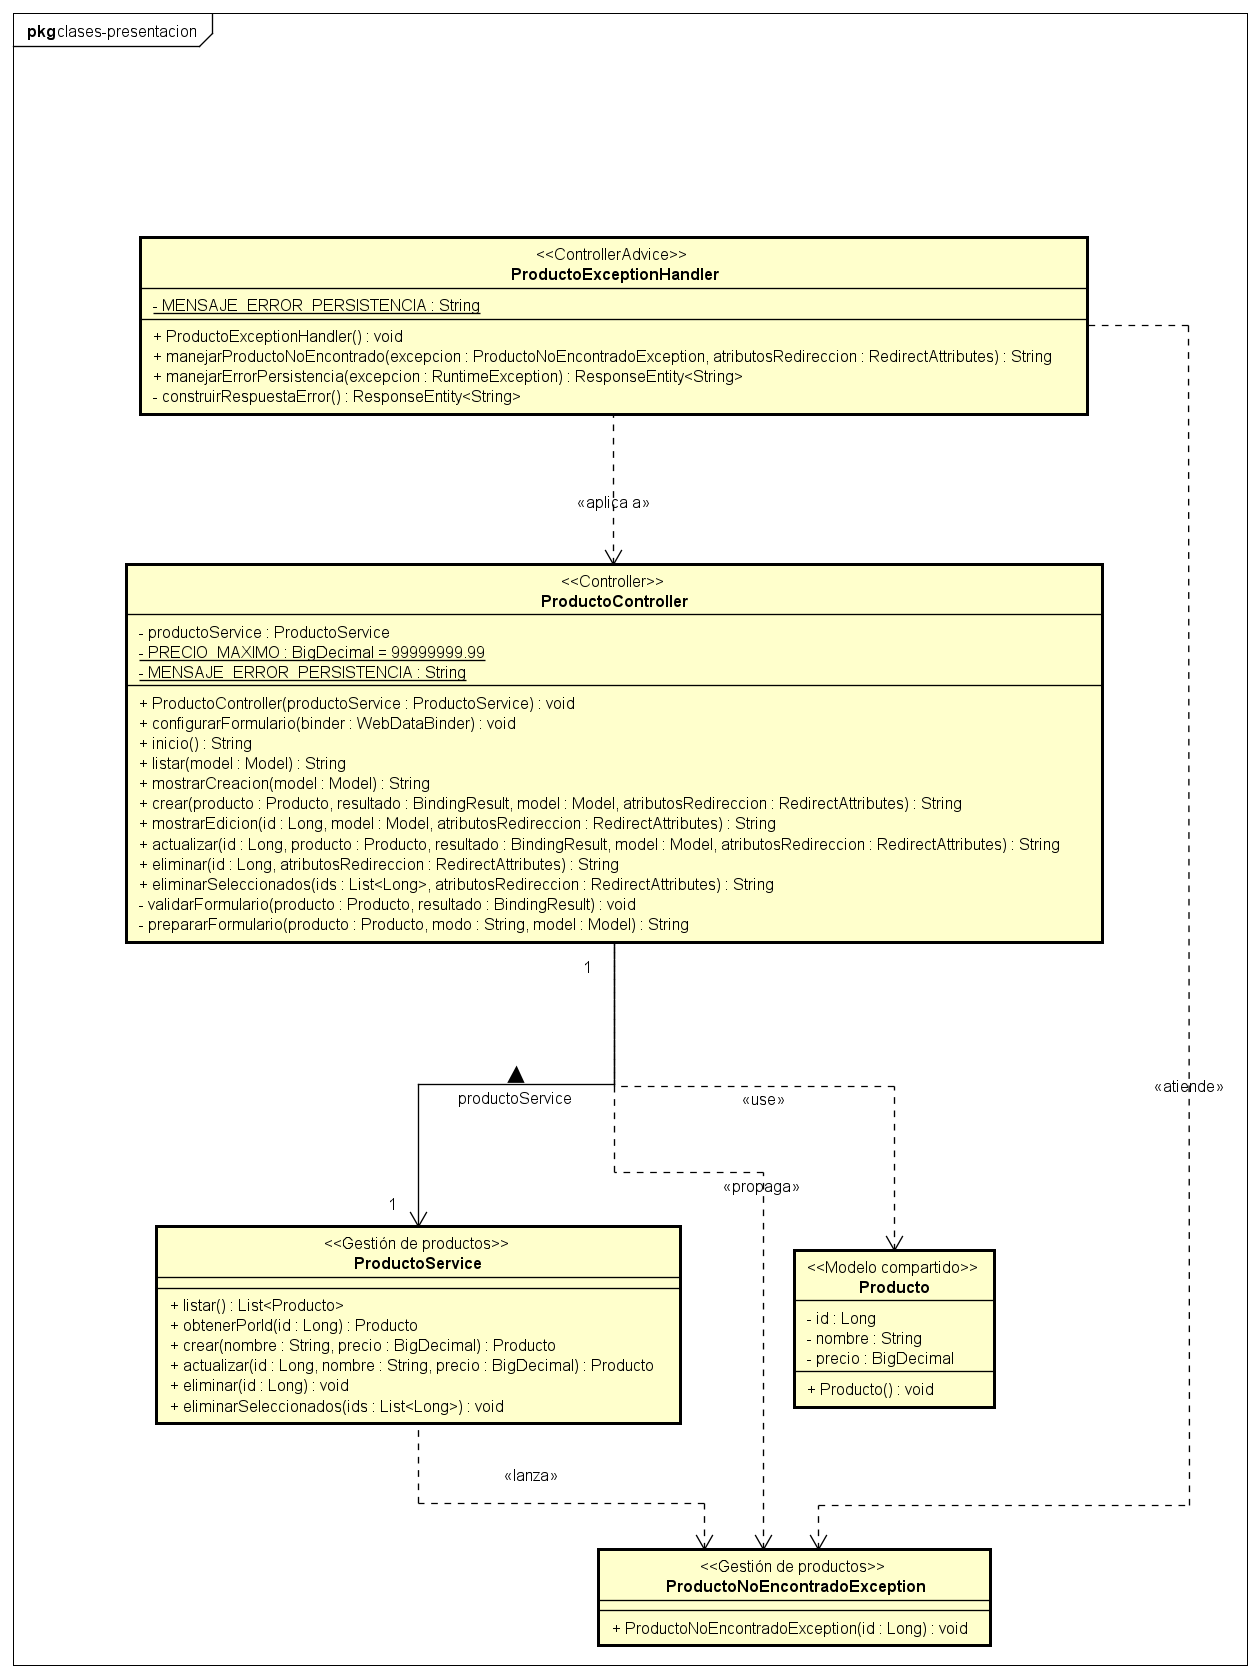
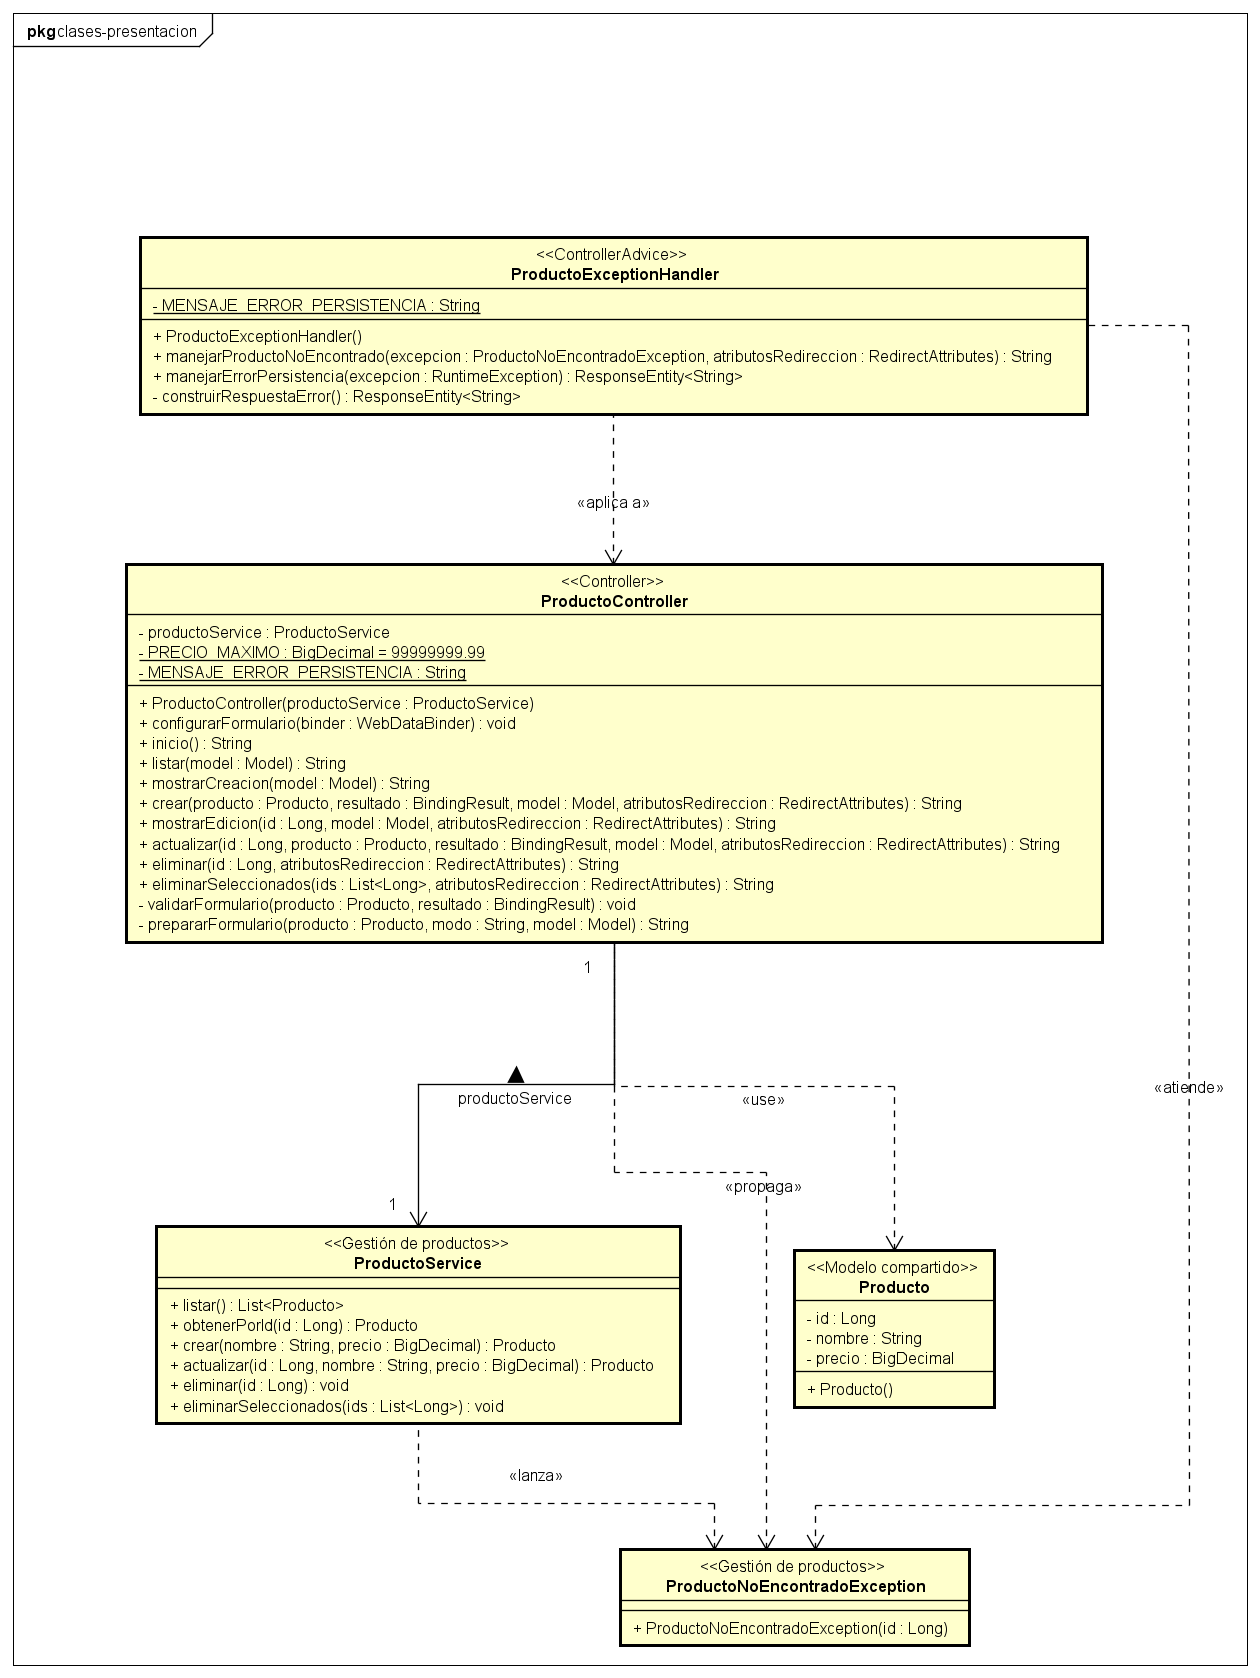
Correcciones revision

diff --git a/docs/diseno/aportes/fabio.md b/docs/diseno/aportes/fabio.md
@@ -176,7 +176,7 @@ Recibe las acciones del catálogo, prepara las vistas, convierte y valida la cap
 | `Producto` | Dependencia de uso: es el producto que se muestra y se captura; solo `nombre` y `precio` son enlazables. |
 | `ProductoNoEncontradoException` | Dependencia por propagación: la deja salir hacia `ProductoExceptionHandler`. |
 | `Model`, `RedirectAttributes`, `BindingResult`, `WebDataBinder` | Dependencias de uso de Spring: datos de la vista, mensajes flash, errores del formulario y configuración del enlace. |
-| `DataAccessException`, `TransactionException` | Dependencia por manejo: se atienden al guardar y al eliminar; en la consulta del listado y la carga de edición se propagan al manejador. `DataAccessException` incluye `ObjectOptimisticLockingFailureException`, que el servicio lanza ante cambios concurrentes. |
+| `DataAccessException`, `TransactionException` | Dependencia por manejo de errores de persistencia: se atienden al guardar y al eliminar; en la consulta del listado y la carga de edición se propagan al manejador. |
 
 **Atributos**
 
@@ -222,7 +222,7 @@ Convierte las excepciones previstas que salen de `ProductoController` en una red
 | `ProductoController` | Dependencia de aplicación del consejo: delimita las operaciones web a las que se aplica el manejo de errores. |
 | `ProductoNoEncontradoException` | Dependencia por excepción atendida: se obtiene de ella el mensaje de producto inexistente. |
 | `RedirectAttributes` | Dependencia de uso: envía `mensajeError` como atributo flash al redirigir. |
-| `DataAccessException`, `TransactionException` | Dependencia por excepción atendida: fallos de persistencia no tratados localmente, entre ellos `ObjectOptimisticLockingFailureException`. |
+| `DataAccessException`, `TransactionException` | Dependencia por excepción atendida: fallos de persistencia no tratados localmente. |
 | `ResponseEntity<String>` | Dependencia de uso: devuelve estado HTTP, tipo de contenido y cuerpo HTML sin redirección automática. |
 
 No inyecta `ProductoService` ni `ProductoRepository`, y no vuelve a consultar la base para construir la respuesta de error.
